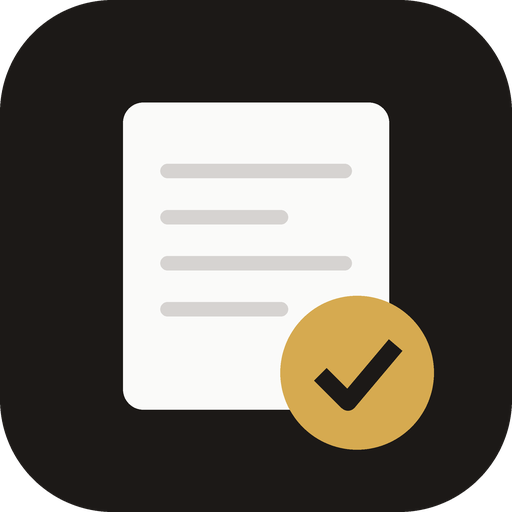
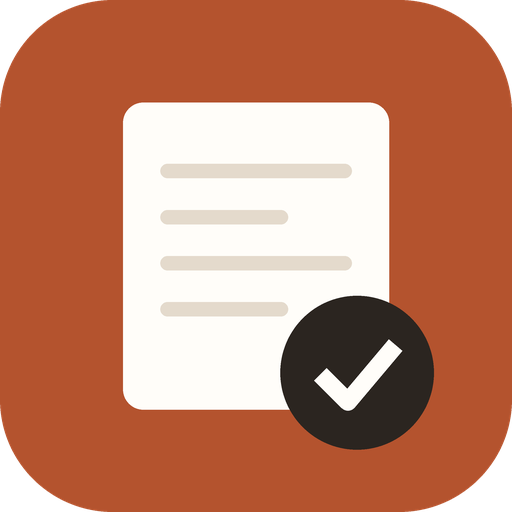
Switch to a single warm light palette and plain typography
Desktop and phone used different colours (gold vs. mint green) and dark
mode turned the page black; now one warm paper-like palette applies
everywhere. Decorative serif numerals, wide letter-spacing and
uppercase labels are replaced with plain sans-serif text, rounded
cards and inputs. Icons and the limits page follow the same palette.

Claude-Session: https://claude.ai/code/session_01Qz5FvXcAeSpLyKw8NQgMC5

diff --git a/src/app.css b/src/app.css
@@ -1,48 +1,33 @@
-/* 配色：UI UX Pro Max「E-commerce Luxury」(uupm.cc 精品電商示範同一套資料)
-   石墨黑主色 #1C1917、金色點綴 #A16207、米白底 #FAFAF9、細邊框 #D6D3D1；標題 Cormorant＋思源宋體，內文 Montserrat＋思源黑體 */
+/* 配色：暖色淺底 (像紙張的米白底、暖墨色文字、磚紅色主要按鈕)；只有淺色，電腦與手機同一套。
+   字體一律用思源黑體，不用裝飾性襯線字與寬字距，看起來像一般辦公工具。 */
 :root {
-  --bg: #FAFAF9;
-  --panel: #FFFFFF;
-  --fg: #0C0A09;
-  --mut: #57534E;
-  --line: #D6D3D1;
-  --line-soft: #E7E5E4;
-  --accent: #1C1917;
+  color-scheme: light;
+  --bg: #FAF6EF;
+  --panel: #FFFDF9;
+  --fg: #2B2520;
+  --mut: #74695E;
+  --line: #E4DACC;
+  --line-soft: #EFE7DB;
+  --accent: #2B2520;
   --accent-ink: #FFFFFF;
-  --accent-soft: #F5F5F4;
-  --cta: #A16207;
+  --accent-soft: #F4ECDF;
+  --cta: #B4532E;
   --cta-ink: #FFFFFF;
-  --gold: #A16207;
-  --err: #B91C1C;
-  --err-soft: #FEF2F2;
-  --warn: #92400E;
-  --warn-soft: #FEF6E7;
-  --suspect: #475569;
-  --suspect-soft: #F1F5F9;
-  --hl: #F6E9C8;
-  --info: #44403C;
-  --info-soft: #F5F5F4;
-  --radius: 2px;
-  --shadow-sm: none;
-  --font-display: "Cormorant", "Noto Serif TC", "Songti TC", "PMingLiU", serif;
-  --font-body: "Montserrat", "Noto Sans TC", "PingFang TC", "Microsoft JhengHei", system-ui, sans-serif;
-  --font-mono: "Fira Code", "Noto Sans TC", ui-monospace, Menlo, Consolas, monospace;
-}
-@media (prefers-color-scheme: dark) {
-  :root:not([data-theme="light"]) {
-    --bg: #0C0A09; --panel: #1C1917; --fg: #FAFAF9; --mut: #A8A29E; --line: #44403C; --line-soft: #292524;
-    --accent: #FAFAF9; --accent-ink: #0C0A09; --accent-soft: #292524; --cta: #CA8A04; --cta-ink: #0C0A09; --gold: #D6A73A;
-    --err: #F87171; --err-soft: #2A1212; --warn: #FBBF24; --warn-soft: #2A2110; --suspect: #94A3B8; --suspect-soft: #1E2530;
-    --hl: #4A3A12; --info: #D6D3D1; --info-soft: #292524;
-    color-scheme: dark;
-  }
-}
-:root[data-theme="dark"] {
-  --bg: #0C0A09; --panel: #1C1917; --fg: #FAFAF9; --mut: #A8A29E; --line: #44403C; --line-soft: #292524;
-  --accent: #FAFAF9; --accent-ink: #0C0A09; --accent-soft: #292524; --cta: #CA8A04; --cta-ink: #0C0A09; --gold: #D6A73A;
-  --err: #F87171; --err-soft: #2A1212; --warn: #FBBF24; --warn-soft: #2A2110; --suspect: #94A3B8; --suspect-soft: #1E2530;
-  --hl: #4A3A12; --info: #D6D3D1; --info-soft: #292524;
-  color-scheme: dark;
+  --gold: #A0522D;
+  --err: #B3261E;
+  --err-soft: #FBEAE5;
+  --warn: #8F5A00;
+  --warn-soft: #FBF0D9;
+  --suspect: #5E6670;
+  --suspect-soft: #EEF0F2;
+  --hl: #FBE3B8;
+  --info: #4A4038;
+  --info-soft: #F4ECDF;
+  --radius: 10px;
+  --shadow-sm: 0 1px 2px rgba(80, 55, 30, .06);
+  --font-display: "Noto Sans TC", "PingFang TC", "Microsoft JhengHei", system-ui, sans-serif;
+  --font-body: "Noto Sans TC", "PingFang TC", "Microsoft JhengHei", system-ui, sans-serif;
+  --font-mono: ui-monospace, "SF Mono", Menlo, Consolas, "Noto Sans TC", monospace;
 }
 
 * { box-sizing: border-box; }
@@ -282,7 +267,7 @@ details.more[open] > summary { margin-bottom: 8px; }
 /* 在電腦上直接開啟時沒有 AI：按鈕變淡，按下會說明原因 */
 body.no-ai .ai-btn, body.no-ai .ai-notice { display: none; }
 
-/* ===== 精品風格 (E-commerce Luxury)：細線、方角、襯線標題、寬字距小標、金色重點 ===== */
+/* ===== 版面細節 ===== */
 body { font-size: 15px; letter-spacing: .01em; }
 .top { padding-block: 40px 20px; border-bottom: 1px solid var(--line); margin-bottom: 20px; align-items: flex-end; }
 .brand h1 { font-family: var(--font-display); font-weight: 600; font-size: 40px; letter-spacing: .02em; line-height: 1.1; }
@@ -365,20 +350,16 @@ details.raw > summary::-webkit-details-marker { display: none; }
 details.raw > summary::before { content: "▸"; color: var(--gold); width: 1em; }
 details.raw[open] > summary::before { content: "▾"; }
 
-/* ===== 逐筆確認 (手機主要操作；配色參考學習卡片 App：暖米白底、白色圓角卡片、薄荷綠進度) ===== */
+/* ===== 逐筆確認 (手機主要操作；白色圓角卡片、大按鈕，配色與整體相同) ===== */
 .review {
-  --rv-bg: #F5F4F0; --rv-card: #FFFFFF; --rv-line: #E3E1DB; --rv-fg: #1C1B19; --rv-mut: #8A877F;
-  --rv-green: #74C2A0; --rv-track: #E8E6E0; --rv-pill-bg: #E6F0E1; --rv-pill-fg: #2F5E3F;
-  --rv-err-bg: #FBE9E7; --rv-err-fg: #A12A1F; --rv-warn-bg: #FBF0DC; --rv-warn-fg: #8A5300; --rv-sus-bg: #EAEFF5; --rv-sus-fg: #3F4F63;
+  --rv-bg: var(--bg); --rv-card: var(--panel); --rv-line: var(--line); --rv-fg: var(--fg); --rv-mut: var(--mut);
+  --rv-green: var(--cta); --rv-track: #EADFD0; --rv-pill-bg: var(--accent-soft); --rv-pill-fg: var(--gold);
+  --rv-err-bg: var(--err-soft); --rv-err-fg: var(--err); --rv-warn-bg: var(--warn-soft); --rv-warn-fg: var(--warn); --rv-sus-bg: var(--suspect-soft); --rv-sus-fg: var(--suspect);
   position: fixed; inset: 0; z-index: 50; overflow-y: auto; background: var(--rv-bg); color: var(--rv-fg);
   padding: max(20px, env(safe-area-inset-top)) 20px max(28px, env(safe-area-inset-bottom));
   display: flex; flex-direction: column; gap: 18px; font-family: var(--font-body);
 }
 .review > * { width: 100%; max-width: 560px; margin-inline: auto; }
-@media (prefers-color-scheme: dark) {
-  :root:not([data-theme="light"]) .review { --rv-bg: #151412; --rv-card: #1F1E1B; --rv-line: #34322E; --rv-fg: #F2F1EC; --rv-mut: #A29F97; --rv-track: #34322E; --rv-pill-bg: #1F3328; --rv-pill-fg: #A8DCC0; --rv-err-bg: #3A1814; --rv-err-fg: #F4A59B; --rv-warn-bg: #3A2C12; --rv-warn-fg: #F2C879; --rv-sus-bg: #232B36; --rv-sus-fg: #B6C3D4; }
-}
-:root[data-theme="dark"] .review { --rv-bg: #151412; --rv-card: #1F1E1B; --rv-line: #34322E; --rv-fg: #F2F1EC; --rv-mut: #A29F97; --rv-track: #34322E; --rv-pill-bg: #1F3328; --rv-pill-fg: #A8DCC0; --rv-err-bg: #3A1814; --rv-err-fg: #F4A59B; --rv-warn-bg: #3A2C12; --rv-warn-fg: #F2C879; --rv-sus-bg: #232B36; --rv-sus-fg: #B6C3D4; }
 body.reviewing { overflow: hidden; }
 .rv-top { display: flex; align-items: center; gap: 12px; margin-top: 8vh; }
 .rv-quit, .rv-back { background: none; border: 0; color: var(--rv-mut); font-size: 16px; padding: 10px 0; min-height: 44px; white-space: nowrap; cursor: pointer; }
@@ -406,17 +387,13 @@ body.reviewing { overflow: hidden; }
 .rv-choice b { font-weight: 600; overflow-wrap: anywhere; }
 .rv-choice:hover { border-color: var(--rv-green); }
 .rv-choice:active { background: var(--rv-pill-bg); }
-.rv-choice.primary { background: var(--rv-green); border-color: var(--rv-green); color: #0F2A1E; font-weight: 600; }
+.rv-choice.primary { background: var(--cta); border-color: var(--cta); color: var(--cta-ink); font-weight: 600; }
 .rv-done .rv-big { color: var(--rv-pill-fg); }
 .review-start { display: flex; flex-wrap: wrap; align-items: center; gap: 10px; margin-top: 12px; }
 .list-toggle { display: none; }
 
-/* ===== 手機版 (720px 以下)：跟逐筆確認同一套暖米白配色；清單預設收起，主要用逐筆確認 ===== */
+/* ===== 手機版 (720px 以下)：清單預設收起，主要用逐筆確認 ===== */
 @media (max-width: 720px) {
-  :root:not([data-theme="dark"]) body:not(.force-dark) {
-    --bg: #F5F4F0; --panel: #FFFFFF; --line: #E3E1DB; --line-soft: #ECEAE5; --fg: #1C1B19; --mut: #7A776F;
-    --accent: #1C1B19; --accent-soft: #EEF4EC; --cta: #74C2A0; --cta-ink: #0F2A1E; --gold: #2F5E3F; --hl: #FDF1C7;
-  }
   .top { padding-block: 24px 14px; }
   .brand h1 { font-size: 30px; }
   .drop.big { border-radius: 20px; border-color: var(--line); padding: 28px 16px; }
@@ -438,6 +415,35 @@ body.reviewing { overflow: hidden; }
 @media (max-width: 720px) {
   .on-desk { display: none; }
   .on-phone { display: inline; }
-  .samples .btn:not(.ghost), .review-start .btn.cta { background: #74C2A0; border-color: #74C2A0; color: #0F2A1E; }
   .summary { scroll-margin-top: 16px; }
 }
+
+/* ===== 一般辦公工具的樣子：不用寬字距、全大寫小標與花體數字；圓角卡片 ===== */
+body { letter-spacing: 0; }
+.brand h1 { font-weight: 700; font-size: 30px; letter-spacing: 0; }
+.brand h1::after { display: none; }
+h2 { font-weight: 700; font-size: 19px; letter-spacing: 0; }
+.label, .tile .k, th, details.more > summary, details.raw > summary, .back, .badge, .ai-tag, td .pill { text-transform: none; letter-spacing: 0; }
+.label, .tile .k { font-size: 13px; }
+th { font-size: 13px; color: var(--mut); border-bottom: 1px solid var(--line); }
+.btn { border-radius: 8px; letter-spacing: 0; font-size: 14px; padding: 9px 16px; }
+.btn.small { letter-spacing: 0; }
+.btn.cta:hover { filter: none; background: #9E4625; border-color: #9E4625; }
+.drop, .drop.big { border-radius: 12px; border: 1.5px dashed #D6C6B0; background: var(--panel); }
+.drop.big:hover, .drop.over { border-color: var(--cta); background: #FFF8EF; }
+.drop.big .drop-k { font-weight: 700; font-size: 20px; letter-spacing: 0; }
+.summary { border: 1px solid var(--line); border-radius: 12px; background: var(--panel); overflow: hidden; }
+.tile .v, .stat b, .rv-big, .detail h3 { font-family: var(--font-body); letter-spacing: 0; }
+.tile .v { font-size: 34px; font-weight: 700; font-variant-numeric: tabular-nums; }
+.detail h3 { font-size: 18px; font-weight: 700; }
+.rv-big { font-weight: 700; }
+.table-wrap, .detail, .block, .finding { border-radius: 12px; }
+td .pill { border-radius: 6px; }
+.badge { border-radius: 6px; }
+#issue-table tbody tr.sel { background: var(--accent-soft); box-shadow: inset 3px 0 0 var(--cta); }
+.rv-pill { letter-spacing: 0; }
+@media (max-width: 720px) {
+  .brand h1 { font-size: 24px; }
+  .tile .v { font-size: 30px; }
+}
+select, input[type="search"], input[type="number"], textarea { border-radius: 8px; border-color: var(--line); background: var(--panel); }

diff --git a/docs/limits.html b/docs/limits.html
@@ -6,17 +6,13 @@
 <title>限制與風險評估｜申報資料檢核助手</title>
 <link rel="preconnect" href="https://fonts.googleapis.com">
 <link rel="preconnect" href="https://fonts.gstatic.com" crossorigin>
-<link rel="stylesheet" href="https://fonts.googleapis.com/css2?family=Noto+Sans+TC:wght@400;500;700&family=IBM+Plex+Mono:wght@400;500&display=swap">
+<link rel="stylesheet" href="https://fonts.googleapis.com/css2?family=Noto+Sans+TC:wght@400;500;700&display=swap">
 <style>
 :root {
-  --bg: #ffffff; --ink: #111111; --grey: #5f5f5f; --rule: #e2e2e2; --tile: #f4f4f4; --red: #e60012;
+  --bg: #FAF6EF; --ink: #2B2520; --grey: #74695E; --rule: #E4DACC; --tile: #F4ECDF; --red: #B4532E;
   --body: "Noto Sans TC", "PingFang TC", "Microsoft JhengHei", sans-serif;
-  --mono: "IBM Plex Mono", ui-monospace, Menlo, monospace;
+  --mono: ui-monospace, "SF Mono", Menlo, Consolas, monospace;
 }
-@media (prefers-color-scheme: dark) {
-  :root:not([data-theme="light"]) { --bg: #121212; --ink: #f2f2f2; --grey: #a8a8a8; --rule: #2e2e2e; --tile: #1c1c1c; --red: #ff4d5a; }
-}
-:root[data-theme="dark"] { --bg: #121212; --ink: #f2f2f2; --grey: #a8a8a8; --rule: #2e2e2e; --tile: #1c1c1c; --red: #ff4d5a; }
 * { box-sizing: border-box; }
 body { margin: 0; background: var(--bg); color: var(--ink); font: 16px/1.75 var(--body); -webkit-font-smoothing: antialiased; }
 main { max-width: 860px; margin: 0 auto; padding: 40px 16px 64px; }
@@ -26,13 +22,14 @@ a { color: inherit; }
 h1 { font-size: clamp(28px, 5vw, 40px); line-height: 1.25; margin: 18px 0 8px; letter-spacing: .02em; }
 .lede { color: var(--grey); margin: 0 0 8px; }
 .meta { color: var(--grey); font-size: 13px; margin: 0 0 32px; }
-h2 { font-size: 22px; margin: 44px 0 12px; padding-top: 14px; border-top: 2px solid var(--ink); }
-h2 small { font: 500 12px var(--mono); color: var(--red); display: block; letter-spacing: .08em; margin-bottom: 2px; }
+h2 { font-size: 21px; margin: 40px 0 12px; padding-top: 14px; border-top: 1px solid var(--rule); }
+h2 small { display: none; }
 h3 { font-size: 17px; margin: 24px 0 6px; }
 p, li { margin: 0 0 10px; }
 ul { padding-left: 1.2em; }
 .table-wrap { overflow-x: auto; margin: 12px 0 8px; }
 table { border-collapse: collapse; width: 100%; font-size: 14px; min-width: 560px; }
+table { background: #FFFDF9; }
 th, td { text-align: left; vertical-align: top; padding: 9px 10px; border-bottom: 1px solid var(--rule); }
 th { background: var(--tile); font-weight: 700; white-space: nowrap; }
 td.num, th.num { text-align: right; font-family: var(--mono); white-space: nowrap; }

diff --git a/index.html b/index.html
@@ -5,10 +5,10 @@
 <meta name="viewport" content="width=device-width, initial-scale=1, viewport-fit=cover">
 <title>申報資料檢核助手</title>
 <link rel="preconnect" href="https://fonts.googleapis.com">
-<link rel="stylesheet" href="https://fonts.googleapis.com/css2?family=Cormorant:wght@500;600;700&family=Montserrat:wght@400;500;600&family=Noto+Serif+TC:wght@500;700&family=Noto+Sans+TC:wght@400;500;700&family=Fira+Code:wght@400&display=swap">
+<link rel="stylesheet" href="https://fonts.googleapis.com/css2?family=Noto+Sans+TC:wght@400;500;700&display=swap">
 <link rel="stylesheet" href="src/app.css">
 <link rel="manifest" href="manifest.webmanifest">
-<meta name="theme-color" content="#1C1917">
+<meta name="theme-color" content="#FAF6EF">
 <meta name="apple-mobile-web-app-capable" content="yes">
 <meta name="mobile-web-app-capable" content="yes">
 <meta name="apple-mobile-web-app-title" content="檢核助手">

diff --git a/sw.js b/sw.js
@@ -2,7 +2,7 @@
  * 離線使用：第一次開啟後把工具的檔案存在裝置上，之後沒有網路也能檢查。
  * 一律先試網路 (拿到最新版)，網路不通時才用裝置上的版本。申報資料本身不會被存下來。
  */
-const CACHE = 'dq-v1';
+const CACHE = 'dq-v2';
 const CORE = ['./', './index.html', './src/app.css', './manifest.webmanifest', './vendor/xlsx.full.min.js', './icons/icon-192.png'];
 self.addEventListener('install', e => { e.waitUntil(caches.open(CACHE).then(c => c.addAll(CORE)).then(() => self.skipWaiting())); });
 self.addEventListener('activate', e => { e.waitUntil(caches.keys().then(ks => Promise.all(ks.filter(k => k !== CACHE).map(k => caches.delete(k)))).then(() => self.clients.claim())); });
